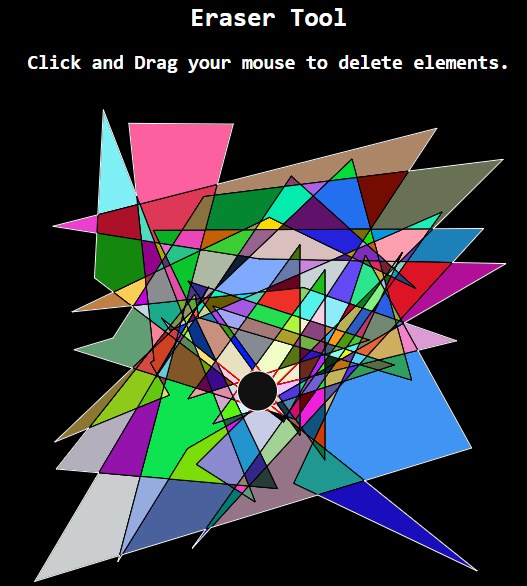
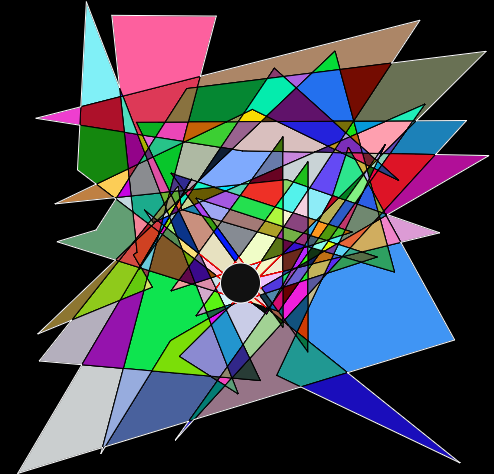
Added Automatic Coloring images and info to website.

diff --git a/builds/a_current_build.js b/builds/a_current_build.js
@@ -1680,15 +1680,12 @@ Purpose: Represents face to face connectivity, such as that needed for coloring.
         value = ref[key];
         id_degrees.push([parseInt(key), value.length]);
       }
-
-      /*
-      id_degrees.sort(
-          (a, b) -> 
-              degree1 = a[1]
-              degree2 = b[1]
-              return degree1 - degree2
-          )
-       */
+      id_degrees.sort(function(a, b) {
+        var degree1, degree2;
+        degree1 = a[1];
+        degree2 = b[1];
+        return degree1 - degree2;
+      });
       face_id_order = [];
       for (i = 0, len = id_degrees.length; i < len; i++) {
         id_degree = id_degrees[i];

diff --git a/lib/Topology/faceGraph.js b/lib/Topology/faceGraph.js
@@ -38,15 +38,12 @@ Purpose: Represents face to face connectivity, such as that needed for coloring.
         value = ref[key];
         id_degrees.push([parseInt(key), value.length]);
       }
-
-      /*
-      id_degrees.sort(
-          (a, b) -> 
-              degree1 = a[1]
-              degree2 = b[1]
-              return degree1 - degree2
-          )
-       */
+      id_degrees.sort(function(a, b) {
+        var degree1, degree2;
+        degree1 = a[1];
+        degree2 = b[1];
+        return degree1 - degree2;
+      });
       face_id_order = [];
       for (i = 0, len = id_degrees.length; i < len; i++) {
         id_degree = id_degrees[i];

diff --git a/index.html b/index.html
@@ -71,6 +71,11 @@ Running these commands fetches the Bryce Data Structures code.
 
 <p> Coming Soon! </p>
 
+<h2> Automatic Coloring </h2>
+<p> <a href="./examples/coloring.html" target="_blank"> Online!</a> </p>
+<a href="./examples/coloring.html" target="_blank">
+<img class="displayed" src="screenshots/Auto_Color_Tool.png" alt="Automatic Coloring examplee image."></a>
+
 <center><h1> Features </h1></center>
 
 <p> This will be a deeper dive into the capabilities of Scribble.JS, which will be written in the future, when I have some more free time.</p>

diff --git a/style.css b/style.css
@@ -6,9 +6,11 @@ body
 
 #content
 {
+    /* these all go together to ensure bounded centered page. */
     max-width: 900px;
     margin-left: auto;
     margin-right: auto;
+    /* ----------- */
 }
 
 /* Navigation Bar */
@@ -221,4 +223,10 @@ h3
     font-variant: normal;
     font-weight: bold;
     line-height: 14px;
+}
+
+a:hover
+{
+    background-color: white;
+    color:black;
 }

diff --git a/examples/coloring.html b/examples/coloring.html
@@ -15,6 +15,12 @@
                 background-color: #000000;
                 margin: 0px;
                 overflow: hidden;
+
+                /* these all go together to ensure bounded centered page. */
+                max-width: 900px;
+                margin-left: auto;
+                margin-right: auto;
+                /* ----------- */
             }
 
             #info {
